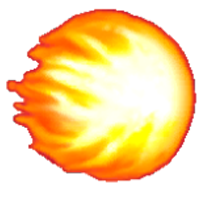
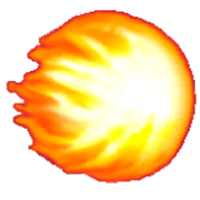
imagens renomeadas e adicionada imagens de hud

diff --git a/Sabertooth-master/Sabertooth/System.cpp b/Sabertooth-master/Sabertooth/System.cpp
@@ -257,17 +257,17 @@ void System::Run()
 
 	//load mage Spell
 	mageSpell.useShader();
-	mageSpell.loadTexture("bin/assets/Attack/attack_fire2.png", "texture1", "attack_fire", false);
-	mageSpell.loadTexture("bin/assets/Attack/attack_water2.png", "texture2", "attack_water", false);
-	mageSpell.loadTexture("bin/assets/Attack/attack_wind2.png", "texture3", "attack_wind", false);
+	mageSpell.loadTexture("bin/assets/Attack/attack_fire.png", "texture1", "attack_fire", false);
+	mageSpell.loadTexture("bin/assets/Attack/attack_water.png", "texture2", "attack_water", false);
+	mageSpell.loadTexture("bin/assets/Attack/attack_wind.png", "texture3", "attack_wind", false);
 	if (!mageSpell.bindVAO())
 		return;
 
 	//load mage Spell 2
 	mageSpell2.useShader();
-	mageSpell2.loadTexture("bin/assets/Attack/attack_fire2.png", "texture1", "attack_fire2", false);
-	mageSpell2.loadTexture("bin/assets/Attack/attack_water2.png", "texture2", "attack_water2", false);
-	mageSpell2.loadTexture("bin/assets/Attack/attack_wind2.png", "texture3", "attack_wind2", false);
+	mageSpell2.loadTexture("bin/assets/Attack/attack_fire.png", "texture1", "attack_fire2", false);
+	mageSpell2.loadTexture("bin/assets/Attack/attack_water.png", "texture2", "attack_water2", false);
+	mageSpell2.loadTexture("bin/assets/Attack/attack_wind.png", "texture3", "attack_wind2", false);
 	if (!mageSpell2.bindVAO())
 		return;
 
